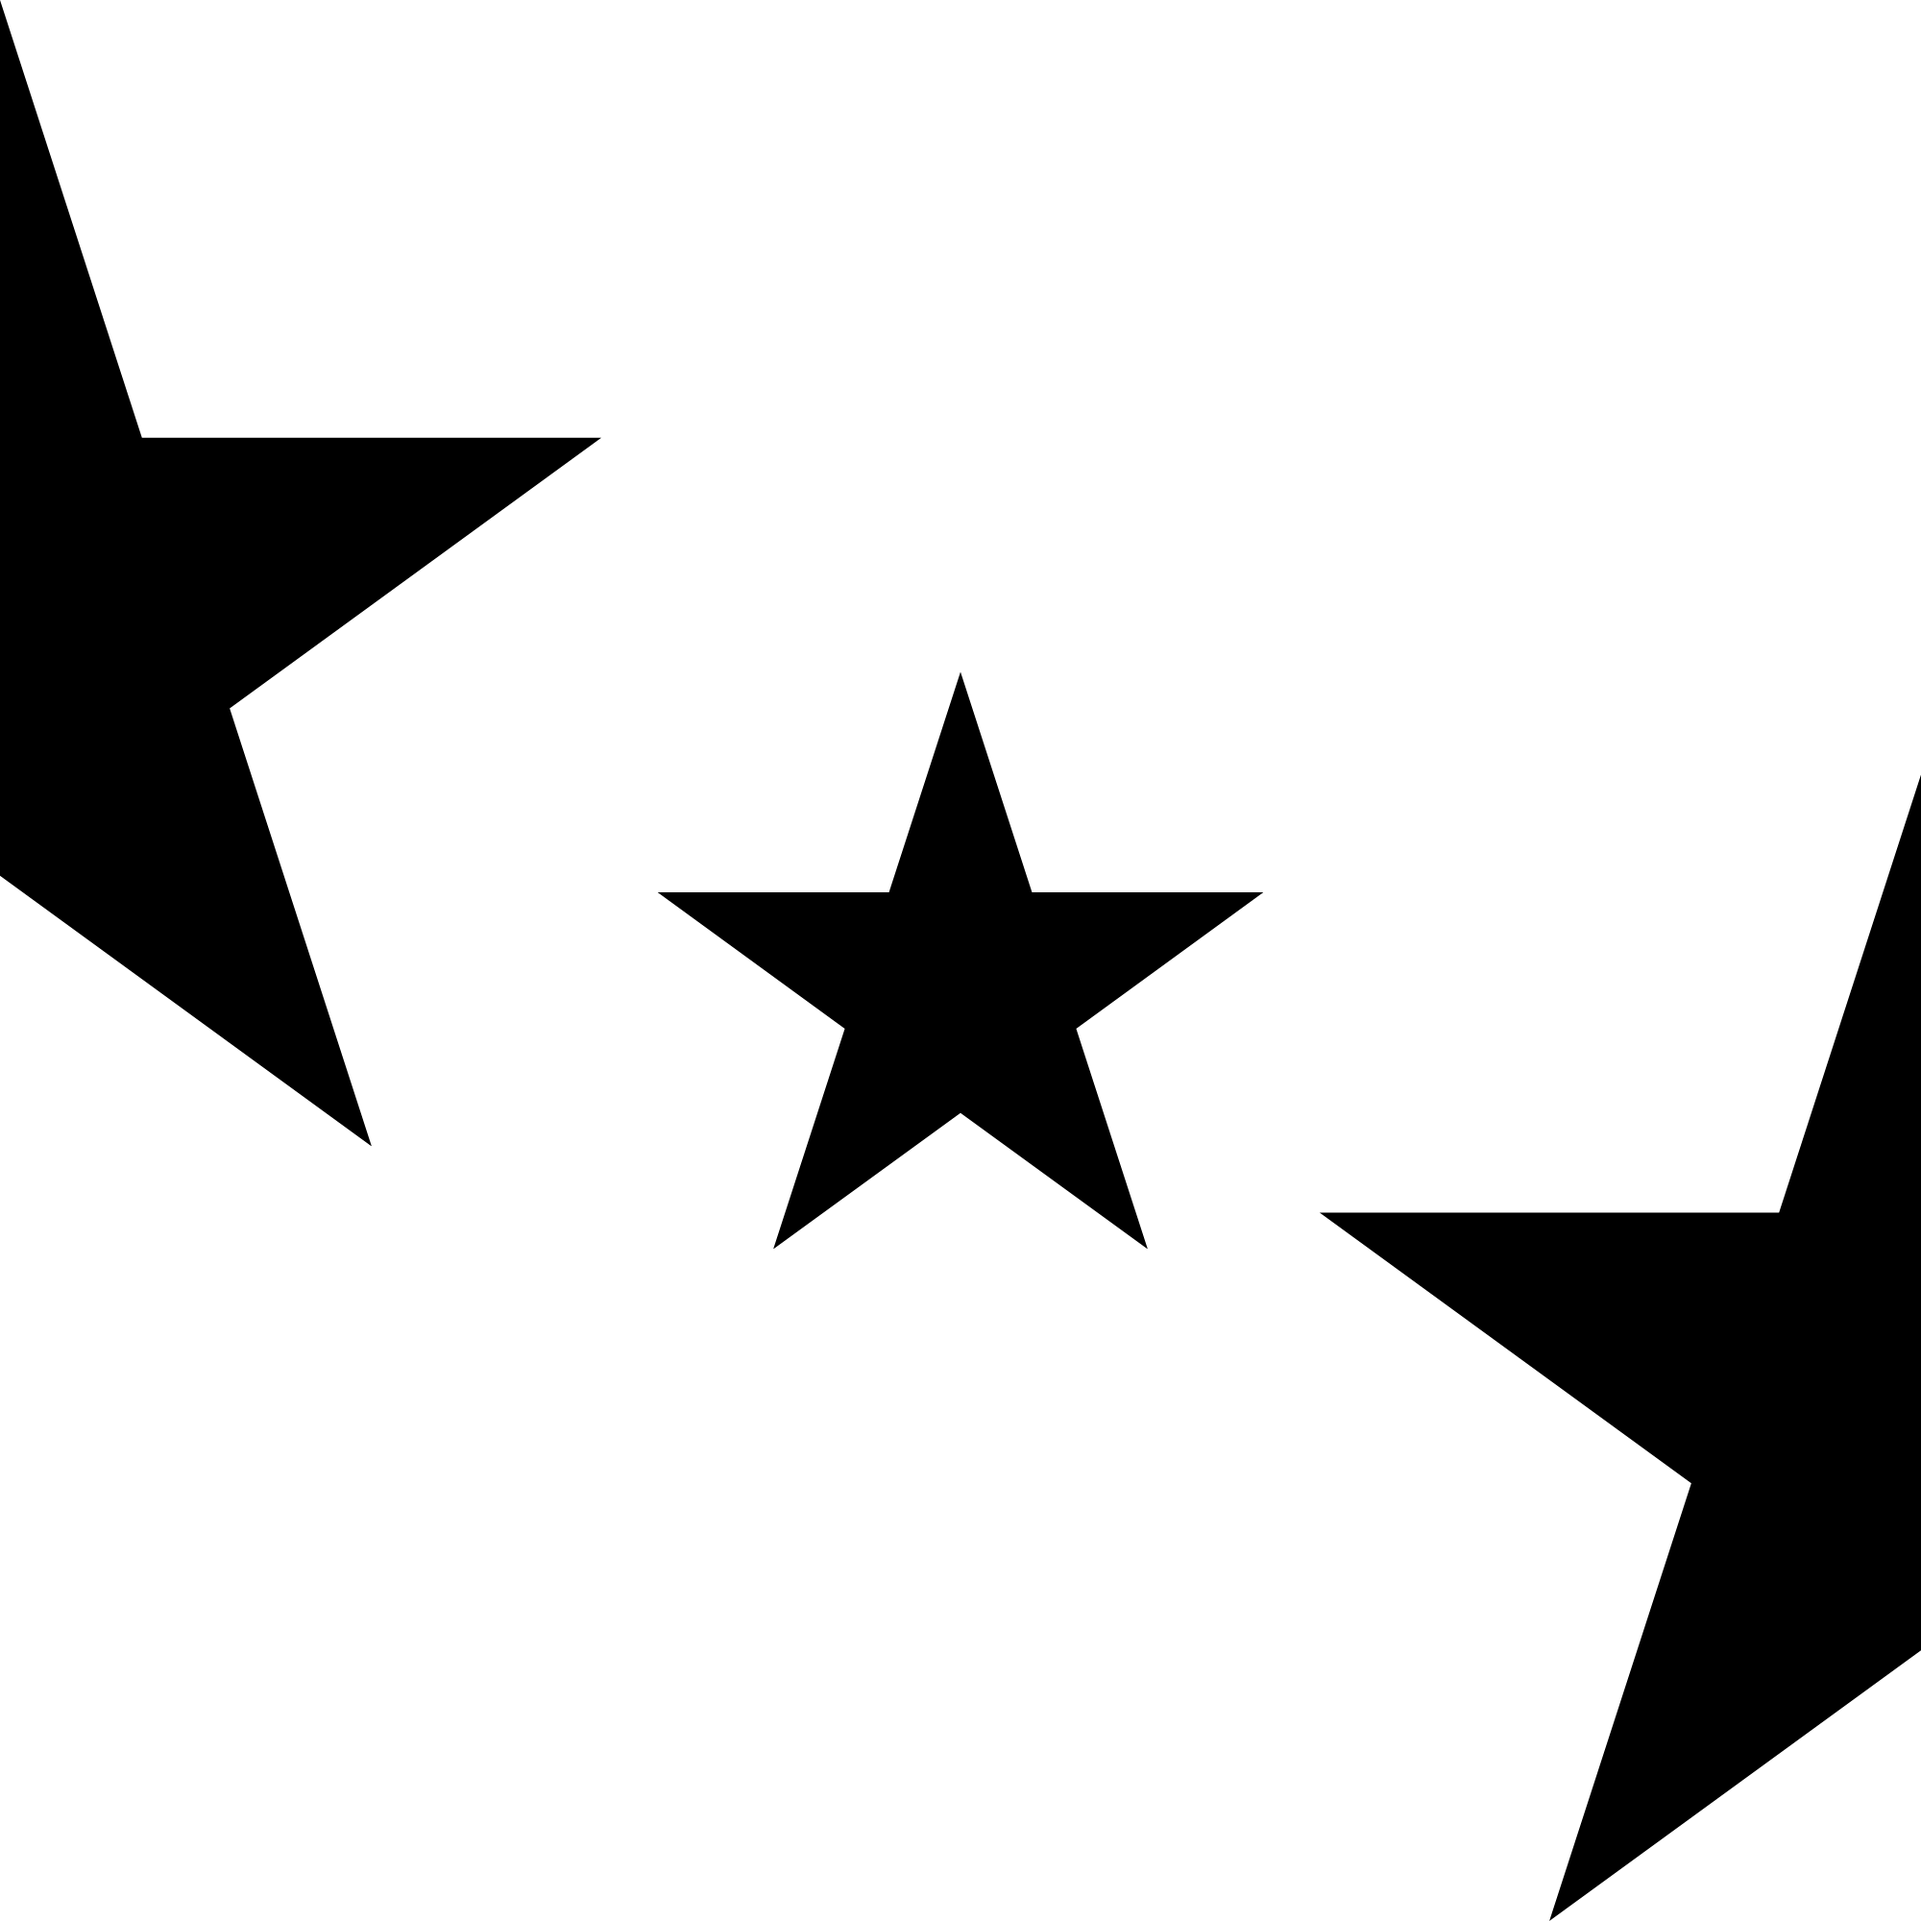
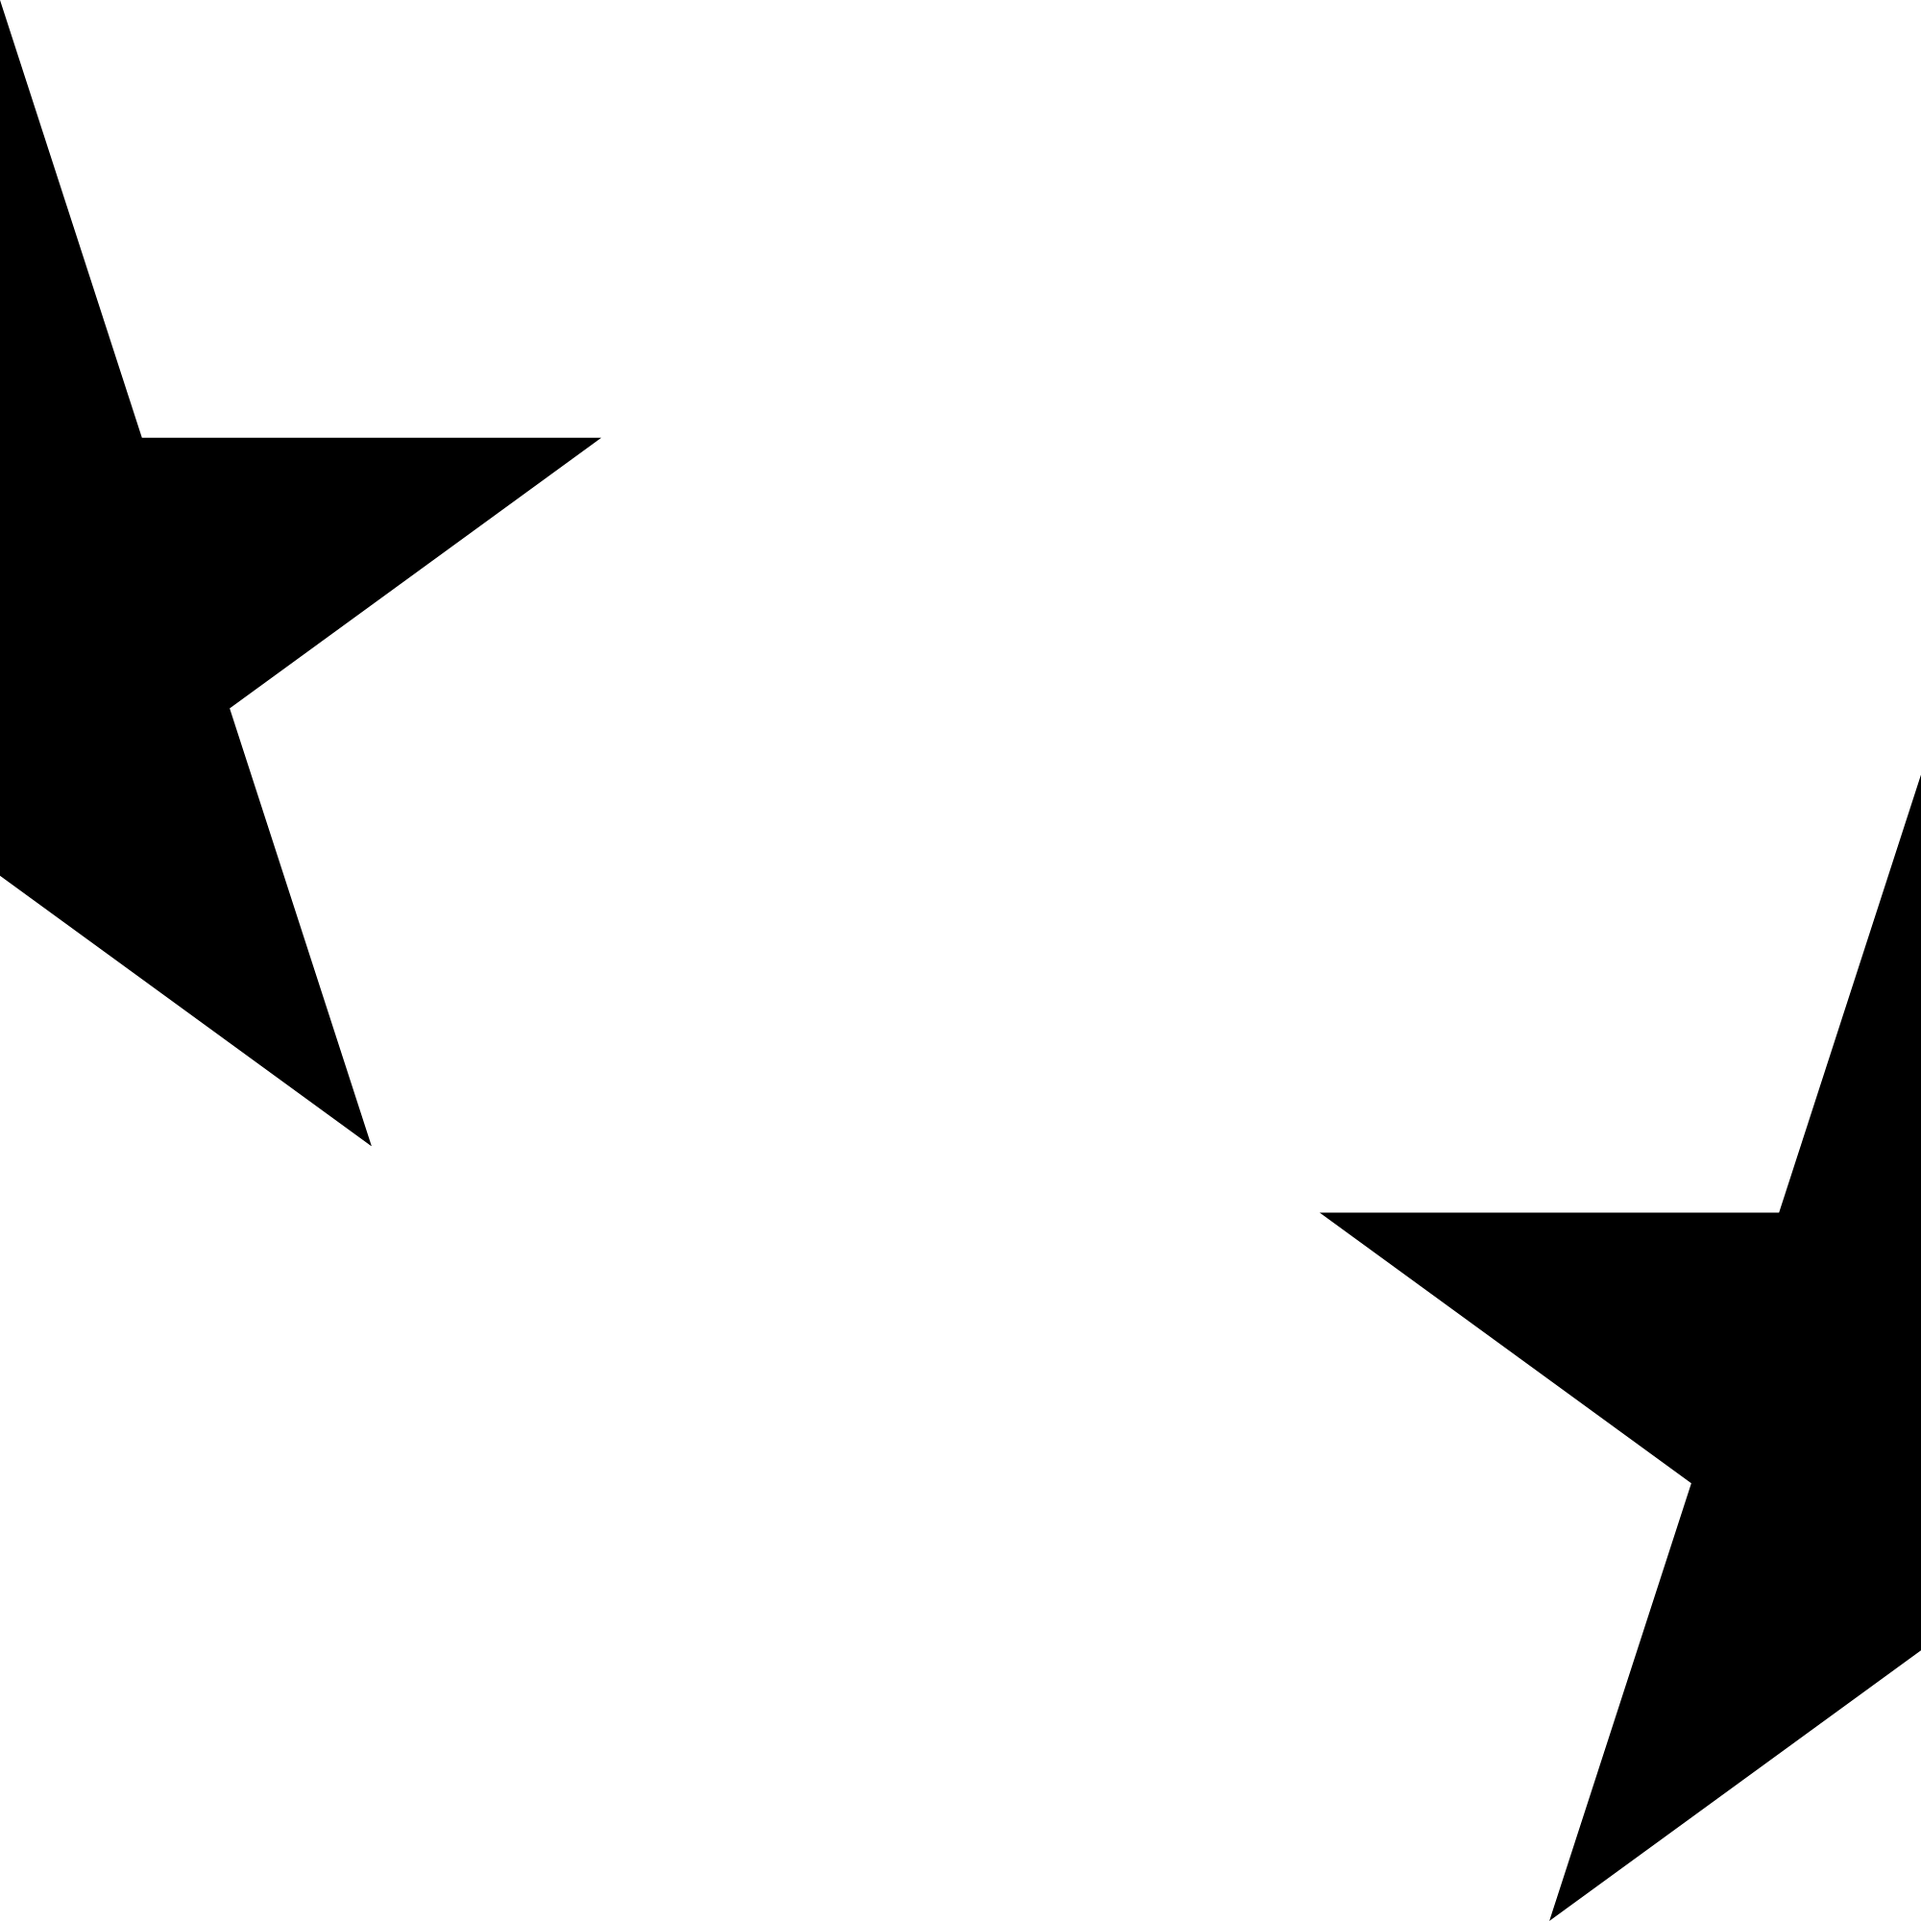
.

Changed region(s): [[0.341, 0.341, 0.651, 0.651]]

diff --git a/FabricJs/index.html b/FabricJs/index.html
@@ -34,31 +34,25 @@ var setPrintArea = [
             name: 'Frente',
             add: [
                 {
-                    image: {
-                        position: {},
-                        mask: {
-                            url: 'assets/BG_In_Love_Front.svg',
-                            attrs: {
-                                fill: '#ff0000',
-                            },
-                            jsColor: '#ff0000',
-                        },
-                    }
-                },
-                {
                     tittle: 'Grade de fotos',
                     image: {
                         position: {
+                            y: 500,
                             height: 2000,
                             width: 2000,
                         },
                         upload: { 
-                            type: '',
+                            type: 'svg',
+                            attrs: {
+                                edit: {
+                                    fill: 'black',
+                                }
+                            },
                             add: [
-                                {x: 0, y: 0, width: 1000, height: 1000},
-                                {x: 1000, y: 0, width: 1000, height: 1000},
-                                {x: 0, y: 1000, width: 1000, height: 1000},
-                                {x: 1000, y: 1000, width: 1000, height: 1000},
+                                {x: 0, y: 0, width: 2000, height: 2000},
+                                //{x: 1000, y: 0, width: 1000, height: 1000},
+                                //{x: 0, y: 1000, width: 1000, height: 1000},
+                                //{x: 1000, y: 1000, width: 1000, height: 1000},
                             ],
                         },
                         clip: {
@@ -88,14 +82,30 @@ var setPrintArea = [
                     } 
                 },
                 {
+                    image: {
+                        position: {
+                            y: 500,
+                            width: 3253, 
+                            height: 2000,
+                        },
+                        mask: {
+                            url: 'assets/Star-2.svg',
+                            attrs: {
+                                fill: 'black',
+                            },
+                        },
+                    }
+                },
+                {
                     tittle: 'nome',
                     text: {
                         position: {
+                            y: 500,
                             height: 2000,
                             width: 2000,
                         },
                         onInput: {
-                            uppercase: true,
+                            uppercase: false,
                             onCenter: false,
                         },
                         attrs: {
@@ -106,7 +116,7 @@ var setPrintArea = [
                                 fontFamily: 'Lucidity',
                                 text: 'nome',
                                 
-                                strokeWidth: 1,
+                                strokeWidth: 20,
                                 
                                 shadowBlur: 0,
                                 shadowOpacity: 0,
@@ -116,20 +126,22 @@ var setPrintArea = [
                                 rotate: false,
                                 moveable: true,
                                 letterSpacing: 20,
+                                textBaseline: 'alphabetic',
                             },
                             edit: {
-                                stroke: 'blue',
+                                stroke: 'black',
                                 shadowOffsetX: 0,
                                 shadowOffsetY: 0,
+                                moveable: true,
                             },
                         },
                         add: [
-                            {x: 0, y: 1500},
-                            {x: 1000, y: 300},
+                            {x: 0, y: 0},
+                            //{x: 1000, y: 300},
                         ],
                         clip: {
                             url: 'assets/Font_Lucidity_Psych.ttf', 
-                            target: ['1-2'],
+                            target: ['1-1'],
                             height: 312,
                         },
                     }

diff --git a/FabricJs/assets/script-2.js b/FabricJs/assets/script-2.js
@@ -243,12 +243,20 @@ for (var [index, item] of setPrintArea.entries()) {
                             group.add(text);
                             targets.push(text);
                             text.onSelect = ()=> {onSelect(text)};
-                            console.log(text.direction());
                         });
                     }
                     
                     var inputBox = document.createElement('div');
                     inputBox.className = 'inputTextBox';
+                    
+                    var selectText = document.createElement('button');
+                    selectText.className = 'findTarget iconBox';
+                    selectText.addEventListener('click', ()=> {
+                        onSelect(input, true);
+                    });
+                    selectText.span = document.createElement('span');
+                    selectText.span.textContent = 'Mirar';
+                    selectText.appendChild(selectText.span);
                     
                     var callEditor = document.createElement('button');
                     callEditor.className = 'callEditor iconBox';
@@ -259,9 +267,9 @@ for (var [index, item] of setPrintArea.entries()) {
                     callEditor.span = document.createElement('span');
                     callEditor.span.textContent = 'Editar';
                     callEditor.appendChild(callEditor.span);
-                    
-                    var uppercase = e.text.onInput.uppercase === true ? true : false;
-                    input.value = uppercase ? targets[0].text().toUpperCase() : targets[0].text();
+
+                    //var uppercase = e.text.onInput.uppercase === true ? true : false;
+                    //uppercase ? targets[0].text().toUpperCase() : targets[0].text();
                     input.node = targets;
                     input.parent = inputBox;
                     input.configBox = document.createElement('div');
@@ -271,10 +279,10 @@ for (var [index, item] of setPrintArea.entries()) {
                     }
 
                     input.oninput = (value)=> {
-                        value = e.text.onInput.uppercase == true ?
+                        value = e.text.onInput.uppercase === true ?
                         input.value.toUpperCase() : input.value;
                         targets.forEach(e=> {
-                            e.setAttr('text', value.toUpperCase());
+                            e.setAttr('text', value);
                         });
                         if (e.text.onInput.onCenter == true) {
                             align('center');
@@ -286,11 +294,7 @@ for (var [index, item] of setPrintArea.entries()) {
                         textClip(clip.url, clip.target, targets, clip.height, input, e.text.onInput.uppercase);
                     }
 
-                    targets[0].on('text', ()=> {
-                        console.log('text');
-                    });
-
-                    inputBox.append(input, callEditor);
+                    inputBox.append(selectText, input, callEditor);
                     box.appendChild(inputBox);
                 }
                 box.childElementCount > 0 ? edit.appendChild(box) : '';

diff --git a/FabricJs/assets/script-1.js b/FabricJs/assets/script-1.js
@@ -759,6 +759,7 @@ function textClip(url, targetID, text, height, input, uppercase = false, rule = 
             console.error('Erro ao carregar a fonte: ', err);
             return;
         }
+
         var fontSize = text[0].getAttr('fontSize');
         var letterSpacing = text[0].getAttr('letterSpacing');
         
@@ -783,9 +784,6 @@ function textClip(url, targetID, text, height, input, uppercase = false, rule = 
                     var newPath = new Path2D(pathData.toPathData());
                     path2D.addPath(newPath);
                     var glyph = font.charToGlyph(char);
-                    var bbox = glyph.getBoundingBox();
-                    var glyphHeight = (bbox.y2 - bbox.y1) * (fontSize / font.unitsPerEm);
-                    console.log(glyphHeight + ' - ' + e.height());
                     var advanceWidth = glyph.advanceWidth * (fontSize / font.unitsPerEm);
                     ltx += advanceWidth + letterSpacing;
                 });
@@ -863,7 +861,7 @@ function setClip(url, target, rule = 0) {
                 width: width,
                 fill: 'red',
             });
-            target.add(rect);
+            //target.add(rect);
 
         } else {
             console.error('no path found');
@@ -1322,6 +1320,7 @@ function createInput() {
         });
 
         box.input = buttonBox;
+        buttonBox.change = ()=> {};
 
         buttonBox.change = ()=> {
             var value = nodeTarget[0].getAttr(add.attr);
@@ -1350,6 +1349,10 @@ function createInput() {
         
         var btnBox = document.createElement('div');
         add.class ? btnBox.className = add.class : '';
+
+        box.input = btnBox;
+
+        btnBox.change = ()=> {};
 
         var list = [];
         add.btns.forEach(e => {
@@ -1677,6 +1680,7 @@ function createInput() {
                 [...e.box.children].forEach(c => {
                     if (attrs.includes(c.attr)) {
                         c.classList.remove('hidden');
+                        console.log(c, c.input);
                         c.input.change();
                     } else {
                         c.classList.add('hidden');

diff --git a/FabricJs/assets/index.css b/FabricJs/assets/index.css
@@ -279,7 +279,7 @@ body {
 .inputTextBox {
     display: flex;
     width: 100%;
-    max-width: 30rem;
+    max-width: 300px;
 }
 
 .inputTextBox.selected {
@@ -574,6 +574,10 @@ button {
 
 .callEditor::before {
     background: url(https://www.svgrepo.com/show/521620/edit.svg) center / 80% no-repeat white;
+}
+
+.findTarget::before {
+    background: url(https://www.svgrepo.com/show/479118/target-2.svg) center / 80% no-repeat white;
 }
 
 .fontSize::before {
